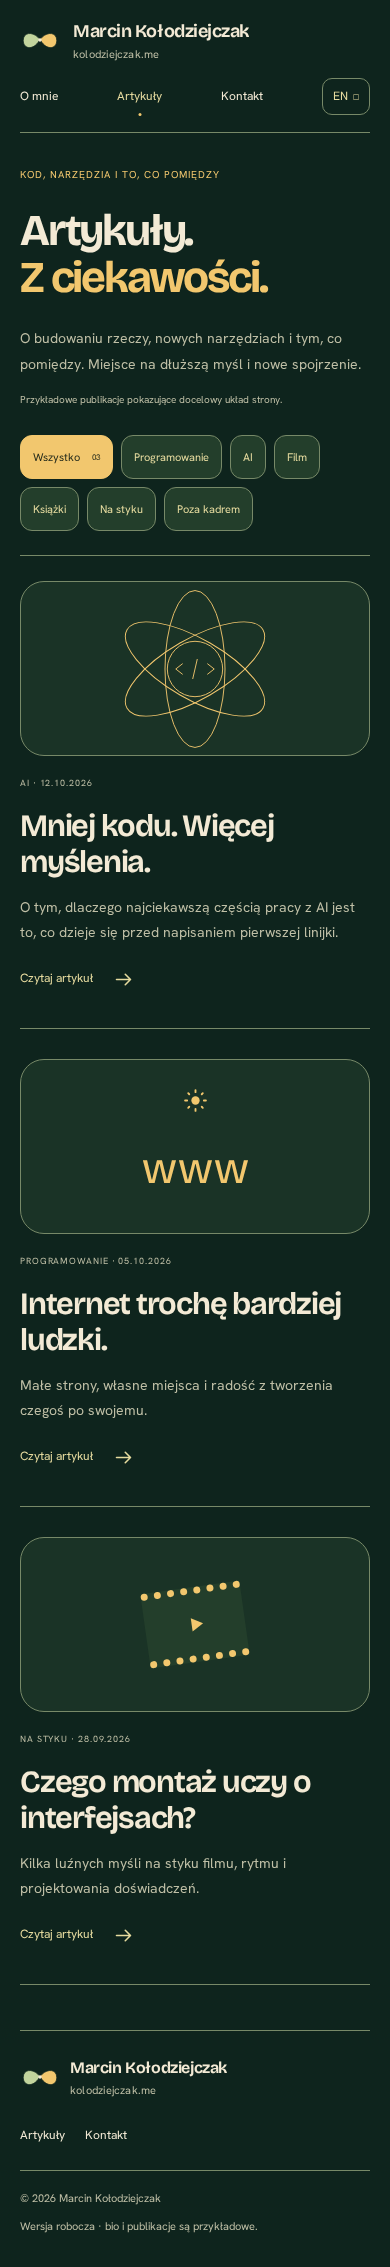
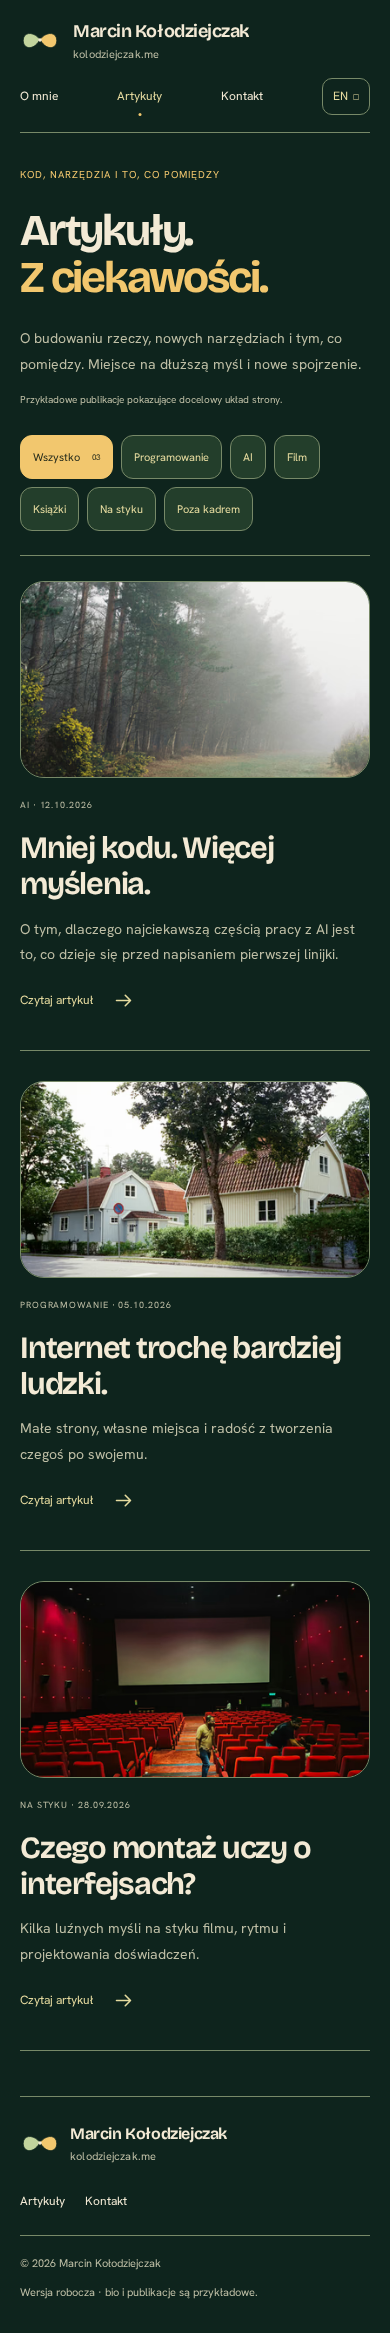
feat: add responsive article photography and native view transitions

diff --git a/tests/article-images.test.ts b/tests/article-images.test.ts
@@ -1,0 +1,75 @@
+import test from "node:test";
+import assert from "node:assert/strict";
+import { readFile, stat, readdir } from "node:fs/promises";
+const output = (path: string) =>
+  readFile(new URL(`../dist/${path}`, import.meta.url), "utf8");
+
+test("each article has a localized, responsive hero before reading time", async () => {
+  for (const path of [
+    "pl/blog/mniej-ale-lepiej",
+    "en/blog/less-but-better",
+    "pl/blog/bardziej-ludzki-internet",
+    "en/blog/a-more-human-internet",
+    "pl/blog/montaz-i-interfejsy",
+    "en/blog/editing-and-interfaces",
+  ]) {
+    const html = await output(`${path}/index.html`);
+    const hero = html.match(
+      /<figure class="article-image article-hero">([\s\S]*?)<\/figure>/,
+    )?.[1];
+    assert.ok(hero, `Missing hero in ${path}`);
+    assert.ok(html.indexOf("article-hero") < html.indexOf("data-reading-time"));
+    assert.match(hero, /type="image\/avif"/);
+    assert.match(hero, /type="image\/webp"/);
+    assert.match(hero, /sizes="[^\"]*100vw/);
+    assert.match(hero, /400w/);
+    assert.match(hero, /1600w/);
+    assert.match(hero, /width="1600" height="900"/);
+    assert.match(hero, /alt="[^\"]+"/);
+    assert.match(hero, /loading="eager"/);
+    assert.match(hero, /fetchpriority="high"/);
+    assert.match(hero, /https:\/\/unsplash.com\/photos\//);
+    assert.doesNotMatch(hero, /src="https?:/);
+    for (const asset of new Set(
+      hero.match(/\/_astro\/[a-zA-Z0-9_.-]+\.(?:avif|webp|jpg)/g),
+    )) {
+      assert.ok(
+        (await stat(new URL(`../dist${asset}`, import.meta.url))).size > 0,
+      );
+    }
+  }
+});
+
+test("list thumbnails and articles share unique transition names and local photos", async () => {
+  const list = await output("pl/blog/index.html");
+  const names = [
+    ...list.matchAll(/view-transition-name:\s*(article-image-[a-z-]+)/g),
+  ].map((match) => match[1]);
+  assert.equal(names.length, 3);
+  assert.equal(new Set(names).size, 3);
+  for (const [key, path] of [
+    ["less", "mniej-ale-lepiej"],
+    ["web", "bardziej-ludzki-internet"],
+    ["film", "montaz-i-interfejsy"],
+  ]) {
+    assert.ok(names.includes(`article-image-${key}`));
+    assert.match(
+      await output(`pl/blog/${path}/index.html`),
+      new RegExp(`view-transition-name:\\s*article-image-${key}`),
+    );
+  }
+  assert.match(list, /loading="lazy"/);
+  const files = await readdir(new URL("../dist/_astro/", import.meta.url));
+  const css = (
+    await Promise.all(
+      files
+        .filter((file) => file.endsWith(".css"))
+        .map((file) => output(`_astro/${file}`)),
+    )
+  ).join("\n");
+  assert.match(css, /@view-transition\s*\{\s*navigation:\s*auto/);
+  assert.match(
+    css,
+    /@media\s*\(prefers-reduced-motion:\s*reduce\)[\s\S]*navigation:\s*none/,
+  );
+});

diff --git a/src/content.config.ts b/src/content.config.ts
@@ -10,21 +10,30 @@ const audio = z.object({
 
 const articles = defineCollection({
   loader: glob({ pattern: "**/*.mdx", base: "./src/content/articles" }),
-  schema: z.object({
-    title: z.string().min(1),
-    description: z.string().min(1).max(300),
-    locale: z.enum(["pl", "en"]),
-    translationKey: z.string().regex(/^[a-z0-9-]+$/),
-    // `slug` is reserved by the content loader; keep route slugs independent of IDs.
-    urlSlug: z.string().regex(/^[a-z0-9]+(?:-[a-z0-9]+)*$/),
-    publishedAt: z.coerce.date(),
-    category: z.enum(categories),
-    draft: z.boolean().default(false),
-    sample: z.boolean().default(false),
-    summary: z.array(z.string().min(1)).length(5),
-    prompt: z.string().min(1),
-    audio: z.object({ pl: audio.optional(), en: audio.optional() }).optional(),
-  }),
+  schema: ({ image }) =>
+    z.object({
+      hero: z.object({
+        src: image(),
+        alt: z.string().min(1),
+        photographer: z.string().min(1),
+        source: z.url(),
+      }),
+      title: z.string().min(1),
+      description: z.string().min(1).max(300),
+      locale: z.enum(["pl", "en"]),
+      translationKey: z.string().regex(/^[a-z0-9-]+$/),
+      // `slug` is reserved by the content loader; keep route slugs independent of IDs.
+      urlSlug: z.string().regex(/^[a-z0-9]+(?:-[a-z0-9]+)*$/),
+      publishedAt: z.coerce.date(),
+      category: z.enum(categories),
+      draft: z.boolean().default(false),
+      sample: z.boolean().default(false),
+      summary: z.array(z.string().min(1)).length(5),
+      prompt: z.string().min(1),
+      audio: z
+        .object({ pl: audio.optional(), en: audio.optional() })
+        .optional(),
+    }),
 });
 
 export const collections = { articles };

diff --git a/src/styles/site.css b/src/styles/site.css
@@ -1648,3 +1648,70 @@ html:not(.js) .js-only {
     animation: none !important;
   }
 }
+
+/* Native cross-document transitions preserve regular static navigation. */
+@view-transition {
+  navigation: auto;
+}
+::view-transition-group(*) {
+  animation-duration: 280ms;
+  animation-timing-function: cubic-bezier(0.22, 0.61, 0.36, 1);
+}
+::view-transition-old(root),
+::view-transition-new(root) {
+  animation-duration: 160ms;
+}
+.article-image {
+  margin: 0;
+  width: 100%;
+  min-width: 0;
+}
+.article-image picture {
+  display: block;
+  width: 100%;
+}
+.article-image img {
+  display: block;
+  width: 100%;
+  height: auto;
+  aspect-ratio: 16 / 9;
+  object-fit: cover;
+}
+.article-hero {
+  margin-bottom: 26px;
+}
+.article-hero img {
+  border: 1px solid var(--line);
+  border-radius: 24px;
+}
+.article-hero figcaption {
+  margin-top: 8px;
+  font-size: 10px;
+  color: var(--muted);
+  text-align: right;
+}
+.article-hero figcaption a {
+  text-decoration: underline;
+}
+.entry-art {
+  aspect-ratio: 16 / 9;
+}
+@media (max-width: 760px) {
+  .entry-art {
+    aspect-ratio: 16 / 9;
+    max-height: none;
+  }
+  .article-hero img {
+    border-radius: 18px;
+  }
+}
+@media (prefers-reduced-motion: reduce) {
+  @view-transition {
+    navigation: none;
+  }
+  ::view-transition-group(*),
+  ::view-transition-old(*),
+  ::view-transition-new(*) {
+    animation: none !important;
+  }
+}

diff --git a/docs/view-transitions-and-images.md b/docs/view-transitions-and-images.md
@@ -1,0 +1,44 @@
+# Przejścia między stronami i obrazy artykułów
+
+18 października 2026. Użytkownik zamówił View Transitions i obowiązkowe zdjęcie hero tuż przed czasem czytania. Zakres obejmuje istniejącą statyczną stronę Astro oraz sześć przykładowych publikacji PL/EN.
+
+## Przejścia
+
+Wybrano natywne przejścia między dokumentami: `@view-transition { navigation: auto; }`. Wspólne zdjęcie na liście i w artykule ma unikalne `view-transition-name` oparte na `translationKey`. Animacja zdjęcia trwa 280 ms, a przenikanie pozostałej strony 160 ms. Działa także nawigacja wstecz. Nie dodano routera klientowego ani przechwytywania linków.
+
+To świadomy wybór zgodny z pierwotnym wymaganiem pełnego HTML i zwykłej nawigacji. [Dokumentacja Astro](https://docs.astro.build/en/guides/view-transitions/#differences-between-browser-native-view-transitions-and-astros-clientrouter-) odróżnia natywne przejścia MPA od opcjonalnego `ClientRouter`. [MDN](https://developer.mozilla.org/en-US/docs/Web/CSS/Reference/At-rules/@view-transition) opisuje opt-in obu dokumentów tego samego originu i ograniczenia wsparcia. Przy braku obsługi przeglądarka wykonuje zwykłą nawigację. `prefers-reduced-motion: reduce` wyłącza przejścia, również animacje pseudoelementów.
+
+## Obrazy
+
+`hero` jest obowiązkowym polem kolekcji, z obrazem walidowanym przez `image()`, tekstem alternatywnym, autorem i linkiem źródłowym. Plik znajduje się w `src/assets/articles/`; ścieżka w MDX jest względna do pliku artykułu.
+
+```yaml
+hero:
+  src: "../../../assets/articles/forest-path.jpg"
+  alt: "Leśna ścieżka znikająca we mgle między drzewami."
+  photographer: "T (@tanyabarrow)"
+  source: "https://unsplash.com/photos/misty-forest-path-with-green-foliage-and-tall-trees-WVUmdcmIuoc"
+```
+
+`ArticleImage.astro` używa `Picture` z `astro:assets`. W czasie budowania powstają AVIF, WebP i JPEG w szerokościach 400, 640, 800, 1200 i 1600 px. Atrybuty `srcset` i `sizes` opisują rzeczywistą szerokość w kolumnie artykułu oraz w siatce listy. Hero ma jawne proporcje 16:9, eager/high priority, miniatury lazy. Wspólne źródła PL/EN wykorzystują te same wygenerowane pliki. [Optymalizacja obrazów Astro](https://docs.astro.build/en/guides/images/), [obrazy w kolekcjach](https://docs.astro.build/en/guides/images/#images-in-content-collections).
+
+Zdjęcia z Unsplasha są zapisane lokalnie, więc podgląd i przyszły build nie zależą od dostępności zewnętrznego serwera obrazów. [Autorzy i źródła plików](../src/assets/articles/README.md). Alt jest przetłumaczony; na liście miniatura ma pusty alt, ponieważ obok istnieje opisowy link z tytułem artykułu. Podpis źródła pokazujemy pod hero.
+
+## Weryfikacja
+
+Kontrola TypeScript i budowanie strony przeszły; 13 testów Node obejmuje pełny HTML, obrazy, fizyczne pliki wariantów, kolejność hero/czasu i unikalność nazw przejść.
+
+W Chromium na istniejącym prywatnym HTTP Tailscale zaobserwowano rozpoczęcie i zakończenie natywnego przejścia przy otwarciu artykułu oraz powrót do listy. Kolejne strony mają nowe dokumenty; nie jest to SPA. Potwierdzono wyłączenie przejść dla ograniczonego ruchu i działanie zdjęć/linków bez JS.
+
+Faktycznie pobrane warianty przykładowego leśnego hero:
+
+| Szerokość ekranu | DPR | Wyświetlana szerokość | Pobrany obraz | Rozmiar AVIF |
+| --- | --- | --- | --- | --- |
+| 390 px | 1 | 350 px | 400 px | 18 641 B |
+| 390 px | 2 | 350 px | 800 px | 72 339 B |
+| 1440 px | 1 | 800 px | 800 px | 72 339 B |
+| 1440 px | 2 | 800 px | 1600 px | 294 309 B |
+
+Przeglądarka wybiera wariant również według gęstości ekranu, więc telefon o wysokim DPR może pobrać większy plik niż telefon o tej samej szerokości CSS i niższym DPR. To pomiar jednego obrazu w kontrolowanych kontekstach Chromium, a nie gwarancja rozmiaru dla każdego urządzenia.
+
+Podglądy: [hero mobile](previews/astro-hero-mobile.png), [hero desktop](previews/astro-hero-desktop.png), [lista ze zdjęciami](previews/astro-photo-list-mobile.png).

diff --git a/docs/astro-foundation.md b/docs/astro-foundation.md
@@ -34,6 +34,11 @@ translationKey: "my-topic"
 urlSlug: "moj-temat"
 publishedAt: "2026-10-18"
 category: "programming"
+hero:
+  src: "../../../assets/articles/forest-path.jpg"
+  alt: "Leśna ścieżka znikająca we mgle między drzewami."
+  photographer: "T (@tanyabarrow)"
+  source: "https://unsplash.com/photos/misty-forest-path-with-green-foliage-and-tall-trees-WVUmdcmIuoc"
 draft: true
 sample: false
 summary:
@@ -64,7 +69,7 @@ Podaj rzeczywiste czasy plików; odtwarzacz natywny i etykiety czasu korzystają
 
 ## Weryfikacja
 
-`npm run validate`: TypeScript, build 12 stron i jedenaście testów Node. Testy sprawdzają parowanie różnych slugów, błędy indeksu publikacji, daty/czasy oraz wynikowe pliki HTML: pełną treść MDX, komponent, blok kodu, pary językowe, natywne narzędzia czytania i link do kolejnego artykułu.
+`npm run validate`: TypeScript, build 12 stron i trzynaście testów Node. Testy sprawdzają parowanie różnych slugów, błędy indeksu publikacji, daty/czasy oraz wynikowe pliki HTML: pełną treść MDX, komponent, blok kodu, pary językowe, natywne narzędzia czytania i link do kolejnego artykułu.
 
 Dodatkowo Chromium: 40 widoków (10 tras × 320/390/768/1440 px), bez poziomego przepełnienia, błędów JS i zewnętrznych żądań. Sprawdzono widok telefonu i desktopu, działanie artykułu i nawigacji bez JS, filtry, pięć zdań TL;DR, prompt, kopiowanie/fallback HTTP, zamykanie Escape i przywracanie fokusu, progres oraz sugestię języka. To kontrola bieżącego zakresu, nie pełny audyt dostępności i wszystkich przeglądarek.
 
@@ -98,3 +103,7 @@ Archiwalne eksperymenty nadal są w `prototypes/`, na gałęzi `codex/prototype-
 Przed publiczną premierą: zdjęcie, potwierdzone bio, prawdziwe linki kontaktowe i pierwszy autorski artykuł z tłumaczeniem; docelowy hosting, sitemap/RSS, podglądy udostępniania oraz Umami od pierwszego publicznego uruchomienia. Dopiero po przeglądzie gotowej strony należy zmienić flagę publikacji i usunąć próbki. Bieżący etap nie publikuje domeny.
 
 Audio wymaga plików. W artykule znajduje się oznaczony placeholder rozmowy ElevenLabs; otwiera informację o planowanej funkcji i nie łączy się z usługą. Agent, komentarze, polubienia i offline wymagają kolejnych działających integracji. Nie przeniesiono symulowanych rozmów, odtwarzania ani polubień z prototypu. Strona nie wykonuje obecnie żądań do zewnętrznych usług i nie ma service workera.
+
+## View Transitions i hero
+
+Każda publikacja wymaga metadanych `hero`. Zdjęcie znajduje się bezpośrednio przed czasem czytania. Miniatury listy i hero korzystają z lokalnych wariantów wygenerowanych przez Astro; nawigacja ma natywne przejścia między dokumentami. [Implementacja, pomiary i źródła](view-transitions-and-images.md).

diff --git a/README.md b/README.md
@@ -27,11 +27,12 @@ npm run preview   # lokalny podgląd po buildzie
 - `src/pages/`: wizytówka, lista i artykuły PL/EN, wybór języka oraz 404.
 - `src/components/`, `src/layouts/`, `src/styles/`: wspólne komponenty i wybrany wygląd.
 - `src/content/articles/{pl,en}/`: osobne publikacje MDX; wspólny `translationKey` paruje wersje, `urlSlug` wyznacza adres.
-- `src/content.config.ts`: schemat metadanych i opcjonalnego audio.
+- `src/content.config.ts`: schemat metadanych, obowiązkowego hero i opcjonalnego audio.
+- `src/assets/articles/`: lokalne zdjęcia z podpisami i źródłami, optymalizowane przez Astro.
 - `src/config/site.ts`: dane autora, kontakty i status publikacji.
 - `public/`: lokalne fonty z licencjami i favicon.
 
-Pełne artykuły, linki językowe, spis treści, TL;DR i prompt działają bez JavaScriptu. Początek artykułu zawiera czas z nagrania, zwinięty TL;DR i zwinięty spis treści. Mały skrypt dodaje filtrowanie, dialog promptu, kopiowanie, sugestię języka przeglądarki i postęp czytania. W rogu znajduje się oznaczony placeholder rozmowy, a po połowie tekstu także strzałka powrotu. Bez klientowego routera i zależności od kodu prototypów.
+Pełne artykuły, linki językowe, spis treści, TL;DR i prompt działają bez JavaScriptu. Początek artykułu zawiera zdjęcie hero, czas z nagrania, zwinięty TL;DR i zwinięty spis treści. Mały skrypt dodaje filtrowanie, dialog promptu, kopiowanie, sugestię języka przeglądarki i postęp czytania. W rogu znajduje się oznaczony placeholder rozmowy, a po połowie tekstu także strzałka powrotu. Natywne View Transitions animują przejście zdjęcia z listy do artykułu. Bez klientowego routera i zależności od kodu prototypów.
 
 ## Status
 
@@ -41,6 +42,7 @@ Przed publiczną premierą potrzebne są prawdziwe materiały autora, konfigurac
 
 - [Zakres implementacji, dodawanie artykułów i weryfikacja](docs/astro-foundation.md)
 - [Poprawki narzędzi czytania i proponowane kategorie](docs/reading-refinements.md)
+- [View Transitions, zdjęcia hero i pomiary wariantów mobilnych](docs/view-transitions-and-images.md)
 - [Kolejność dalszych prac](docs/implementation-next.md)
 - [Decyzje projektowe](docs/prototype-decision.md)
 - [Archiwum prototypów i wcześniejszych porównań](docs/prototype-archive.md)

diff --git a/src/assets/articles/README.md b/src/assets/articles/README.md
@@ -1,0 +1,17 @@
+# Zdjęcia przykładowych artykułów
+
+Pobrane 18 października 2026 z bezpłatnych zdjęć Unsplasha. Źródła i autorzy są też zapisani w metadanych MDX oraz podpisach hero.
+
+| Plik | Autor | Strona zdjęcia |
+| --- | --- | --- |
+| forest-path.jpg | T (@tanyabarrow) | https://unsplash.com/photos/misty-forest-path-with-green-foliage-and-tall-trees-WVUmdcmIuoc |
+| personal-web.jpg | Annie Spratt | https://unsplash.com/photos/houses-and-a-tree-sit-on-a-street-9wSKfJJlcCY |
+| cinema.jpg | Adhitya Sibikumar | https://unsplash.com/photos/empty-cinema-hall-with-red-seats-and-large-screen-GvJBboqOebI |
+
+[Licencja Unsplash](https://unsplash.com/license). Lokalne źródła pobrano jako JPEG o szerokości 1920 px, z zachowaniem oryginalnych proporcji. Astro generuje kadry 16:9 i warianty AVIF/WebP/JPEG podczas budowania; przeglądarka nie łączy się z Unsplashem.
+
+Adresy pobrania (parametry `fm=jpg&w=1920&q=88&fit=max`):
+
+- https://images.unsplash.com/photo-1773402176401-8d6fab390aeb
+- https://images.unsplash.com/photo-1753864719820-d55d7f3fed4c
+- https://images.unsplash.com/photo-1771574203200-0ec88f162fe0

diff --git a/docs/brief.md b/docs/brief.md
@@ -128,3 +128,7 @@ Po rekomendacji Astro + TypeScript + MDX użytkownik napisał „Ok kontynuuj”
 ## Poprawki po pierwszym podglądzie Astro
 
 Użytkownik wykluczył wszelkie odnośniki do about.me: nowa strona ma je zastąpić. Przed artykułem ma być czas na podstawie nagrania, potem zwinięty akordeon TL;DR i zwinięty spis treści. Prompt pozostaje w dialogu z głównym przyciskiem po prawej. Użytkownik zamówił placeholder rozmowy ElevenLabs oraz potwierdzenie działania powrotu na górę. Poprosił też o propozycję kategorii obejmujących film, programowanie, AI, połączenia dziedzin i inne tematy, np. książki. [Wdrożone poprawki i propozycja kategorii](reading-refinements.md).
+
+## View Transitions i hero artykułu
+
+Użytkownik zamówił animacje przejścia między listą i artykułem oraz zdjęcie hero bezpośrednio przed informacją o czasie czytania, z responsywną optymalizacją Astro i przykładami z Unsplasha. Wdrożono natywne przejścia MPA i wymagane obrazy w schemacie MDX. [Zakres, źródła i weryfikacja](view-transitions-and-images.md).
